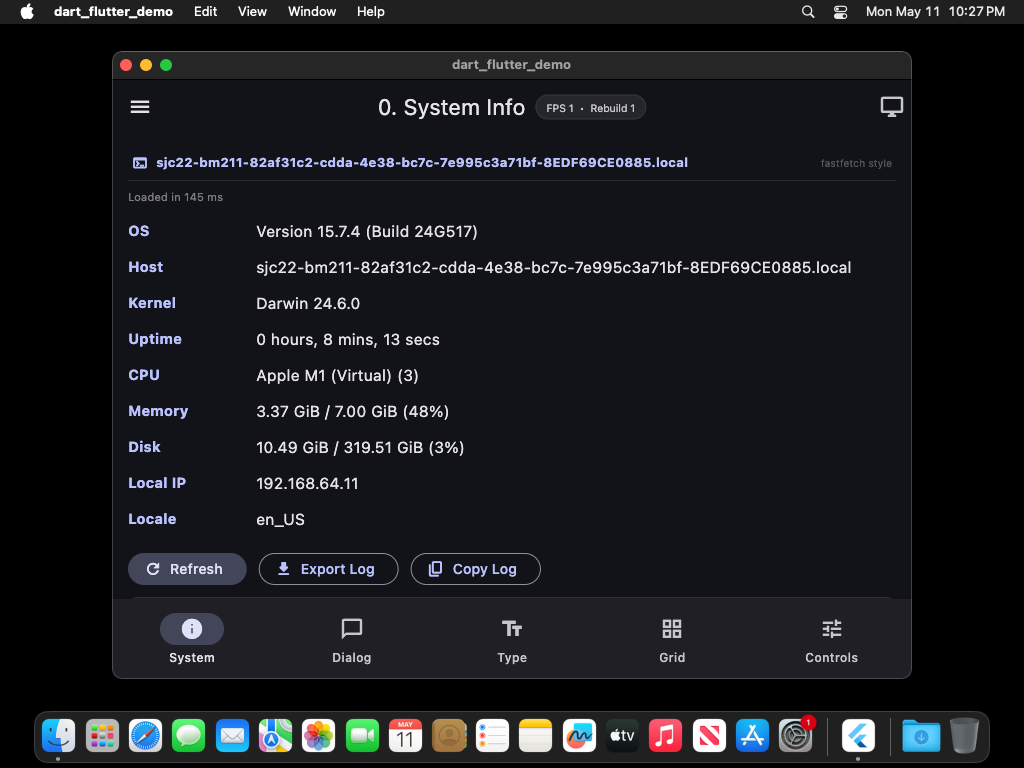
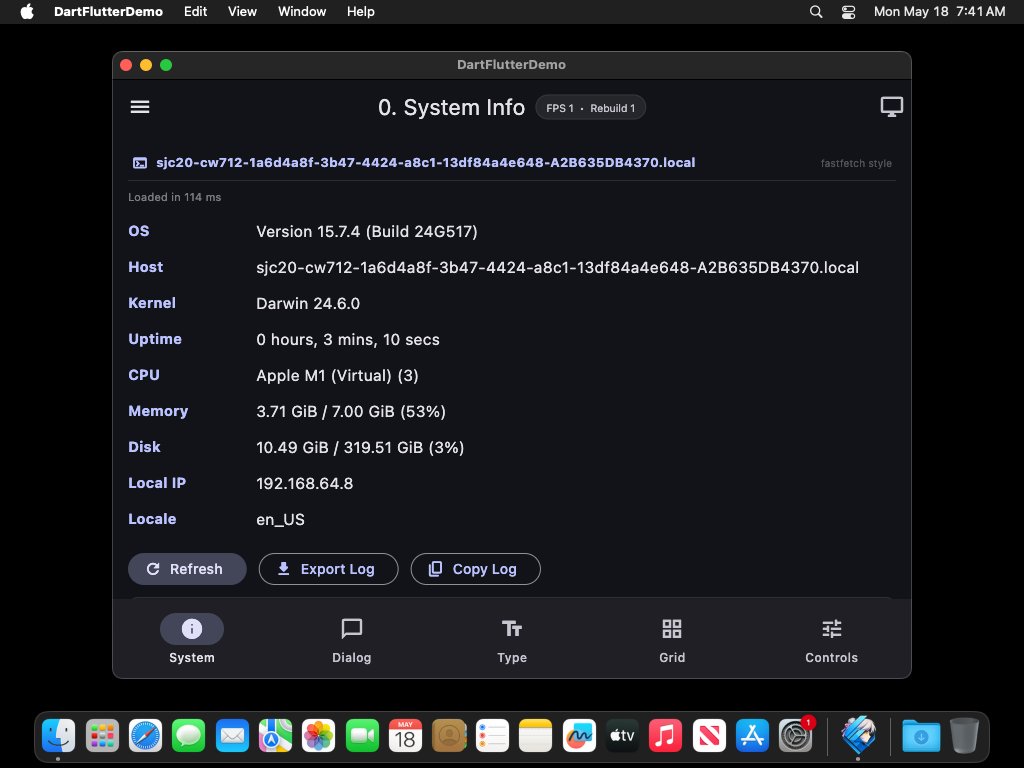
fix(ci): plugins/windows/system_info_plugin.cpp 同步缺失的 5 行修复   添加 WIN32_LEAN_AND_MEAN / ws2tcpip.h / ws2_32.lib / pragma 4200 4505   CI 从 plugins/windows/ 编译时不再触发 winsock 头文件冲突   版本号 0.3.6-rc.19 → 0.3.6-rc.20   build release

diff --git a/plugins/windows/system_info_plugin.cpp b/plugins/windows/system_info_plugin.cpp
@@ -3,8 +3,10 @@
 
 #include "system_info_plugin.h"
 
+#define WIN32_LEAN_AND_MEAN
 #include <windows.h>
 #include <winsock2.h>
+#include <ws2tcpip.h>
 #include <iphlpapi.h>
 #include <psapi.h>
 #include <sysinfoapi.h>
@@ -20,6 +22,10 @@
 
 #pragma comment(lib, "psapi.lib")
 #pragma comment(lib, "iphlpapi.lib")
+#pragma comment(lib, "ws2_32.lib")
+
+#pragma warning(disable : 4200)
+#pragma warning(disable : 4505)
 
 // ── Helpers ──────────────────────────────────────────────────────────────────
 